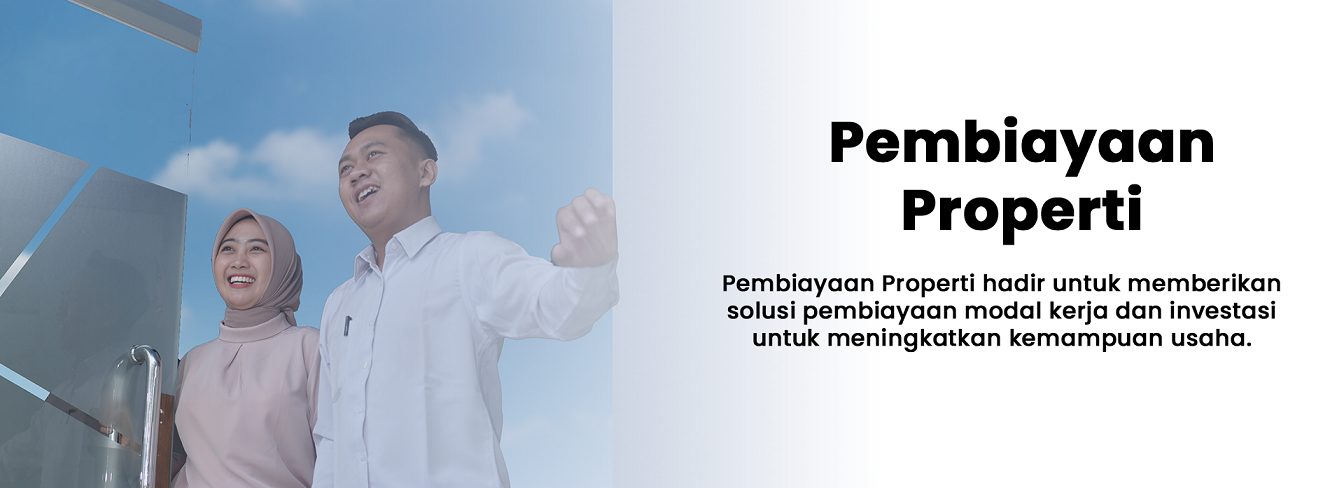
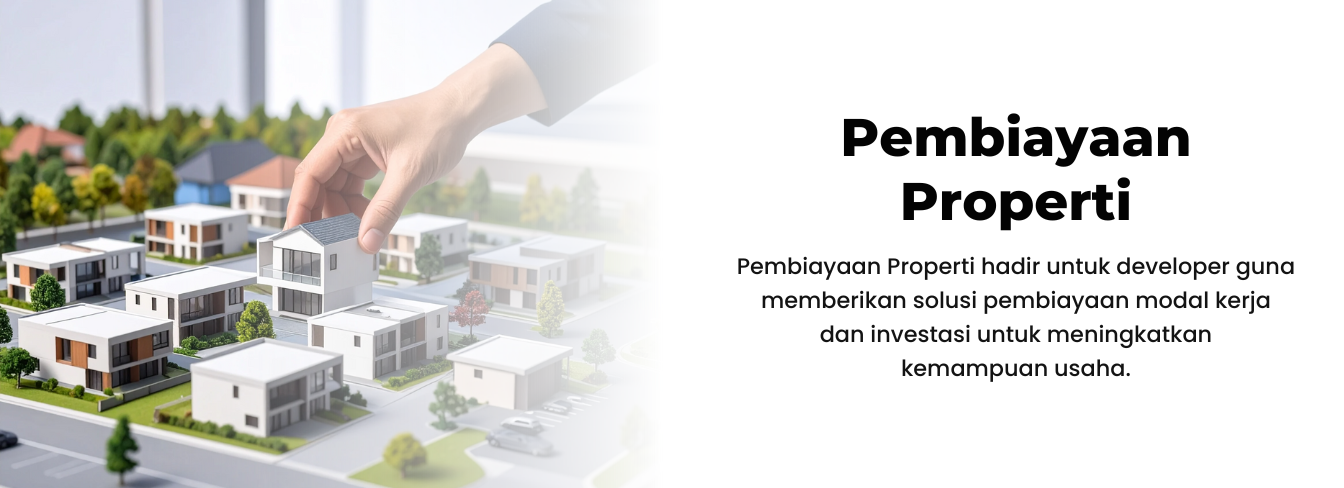
Revisi all

diff --git a/resources/views/tabungan-rencana.blade.php b/resources/views/tabungan-rencana.blade.php
@@ -42,6 +42,32 @@
                             <h5 class="mb-0">Jangka waktu sampai dengan 60 bulan (5 tahun)</h5>
                         </div>
                     </div>
+                    <div class="row g-5">
+                        <div class="col-md-6 d-flex align-items-center mb-1">
+                            <i class="bi bi-check2-square me-3 icon-hover" style="font-size: 2rem;"></i>
+                            <h5 class="mb-0">Akad : Mudharabah Mutlaqah</h5>
+                        </div>
+                        <div class="col-md-6 d-flex align-items-center mb-1">
+                            <i class="bi bi-wallet2 me-3 icon-hover" style="font-size: 2rem;"></i>
+                            <h5 class="mb-0">Setoran Awal Minimum : 100.000,-</h5>
+                        </div>
+                    </div>
+                    <div class="row g-5">
+                        <div class="col-md-6 d-flex align-items-center mb-1">
+                            <i class="bi bi-arrow-repeat me-3 icon-hover" style="font-size: 2rem;"></i>
+                            <h5 class="mb-0">Setoran Rutin Minimum : 100.000,-</h5>
+                        </div>
+                        <div class="col-md-6 d-flex align-items-center mb-1">
+                            <i class="bi bi-calendar-range me-3 icon-hover" style="font-size: 2rem;"></i>
+                            <h5 class="mb-0">Jangka waktu 6 hingga 120 bulan</h5>
+                        </div>
+                    </div>
+                    <div class="row g-5">
+                        <div class="col-md-6 d-flex align-items-center mb-1">
+                            <i class="bi bi-percent me-3 icon-hover" style="font-size: 2rem;"></i>
+                            <h5 class="mb-0">Bagi hasil : Nisbah 30% untuk nasabah setara E.R 4% (menyesuaikan pendapatan bank)</h5>
+                        </div>
+                    </div>
                     <h1 class="pt-1">
                         Keunggulan
                     </h1>
@@ -51,8 +77,8 @@
                             <h5 class="mb-0">Bebas biaya administrasi</h5>
                         </div>
                         <div class="col-md-6 d-flex align-items-center mb-1">
-                            <i class="bi bi-hourglass-split me-3 icon-hover" style="font-size: 2rem;"></i>
-                            <h5 class="mb-0">Dapat diambil sewaktu - waktu</h5>
+                            <i class="bi bi-people-fill me-3 icon-hover" style="font-size: 2rem;"></i>
+                            <h5 class="mb-0">Dapat dibuka untuk anak sejak usia 10 tahun</h5>
                         </div>
                     </div>
                     <div class="row g-5">
@@ -65,29 +91,58 @@
                             <h5 class="mb-0">Dijamin oleh LPS</h5>
                         </div>
                     </div>
-                    <!-- syarat -->
-                    <h1 class="pt-1">
-                        Syarat
-                    </h1>
                     <div class="row g-5">
                         <div class="col-md-6 d-flex align-items-center mb-1">
-                            <i class="bi bi-file-earmark-fill me-3 icon-hover" style="font-size: 2rem;"></i>
-                            <h5 class="mb-0">Tabungan untuk siswa
-                                (PAD, TK, SD / MI, SMP / MTs, SMA / SMK / MA)</h5>
+                            <i class="bi bi-gift-fill me-3 icon-hover" style="font-size: 2rem;"></i>
+                            <h5 class="mb-0">Hadiah langsung tanpa diundi sesuai nominal dan jangka waktu tabungan</h5>
                         </div>
                         <div class="col-md-6 d-flex align-items-center mb-1">
-                            <i class="bi bi-backpack me-3 icon-hover" style="font-size: 2rem;"></i>
-                            <h5 class="mb-0">Usia dibawah 17 tahun dan belum memiliki KTP</h5>
+                            <i class="bi bi-graph-up me-3 icon-hover" style="font-size: 2rem;"></i>
+                            <h5 class="mb-0">Bagi hasil kompetitif</h5>
                         </div>
                     </div>
                     <div class="row g-5">
                         <div class="col-md-6 d-flex align-items-center mb-1">
-                            <i class="bi bi-credit-card-2-front me-3 icon-hover" style="font-size: 2rem;"></i>
-                            <h5 class="mb-0">KTP orang tua / wali</h5>
+                            <i class="bi bi-calendar2-range me-3 icon-hover" style="font-size: 2rem;"></i>
+                            <h5 class="mb-0">Jangka waktu fleksibel hingga 10 tahun</h5>
                         </div>
                         <div class="col-md-6 d-flex align-items-center mb-1">
-                            <i class="bi bi-patch-check me-3 icon-hover" style="font-size: 2rem;"></i>
-                            <h5 class="mb-0">Persetujuan yang sudah diverifikasi sekolah</h5>
+                            <i class="bi bi-speedometer2 me-3 icon-hover" style="font-size: 2rem;"></i>
+                            <h5 class="mb-0">Proses pembukaan mudah dan cepat</h5>
+                        </div>
+                    </div>
+                    <!-- syarat -->
+                    <h1 class="pt-1">
+                        Syarat dan Ketentuan
+                    </h1>
+                    <div class="row g-5">
+                        <div class="col-md-6 mb-4">
+                            <div class="d-flex align-items-start">
+                                <i class="bi bi-file-earmark-fill me-3 icon-hover" style="font-size: 2rem;"></i>
+                                <div>
+                                    <h5 class="mb-2">Perorangan Usia 10–16 tahun</h5>
+                                    <h6 class="mb-2">Dokumen yang diperlukan:</h6>
+                                    <div class="ps-2">
+                                        <h6 class="mb-2">• Kartu Identitas Anak (KIA) / Kartu Pelajar (opsional)</h6>
+                                        <h6 class="mb-2">• Kartu Keluarga (KK)</h6>
+                                        <h6 class="mb-2">• Surat Persetujuan Orang Tua</h6>
+                                        <h6 class="mb-2">• KTP orang tua / wali</h6>
+                                    </div>
+                                </div>
+                            </div>
+                        </div>
+                        <div class="col-md-6 mb-4">
+                            <div class="d-flex align-items-start">
+                                <i class="bi bi-person-badge me-3 icon-hover" style="font-size: 2rem;"></i>
+                                <div>
+                                    <h5 class="mb-2">Perorangan Usia ≥ 17 Tahun</h5>
+                                    <h6 class="mb-2">Dokumen yang diperlukan:</h6>
+                                    <div class="ps-2">
+                                        <h6 class="mb-2">• KTP</h6>
+                                        <h6 class="mb-2">• NPWP (opsional)</h6>
+                                    </div>
+                                </div>
+                            </div>
                         </div>
                     </div>
                     <div class="row pb-4 align-items-center text-center">

diff --git a/resources/views/tabungan-cahaya.blade.php b/resources/views/tabungan-cahaya.blade.php
@@ -1,0 +1,126 @@
+@include('header')
+
+<!-- Navbar & Hero Start -->
+<div class="container-fluid position-relative p-0">
+    <!-- Header Start -->
+    <div class="container-fluid bg-breadcrumb">
+        <div class="container text-center py-5" style="max-width: 900px;">
+            <h4 class="text-white display-5 mb-4 wow fadeInDown" data-wow-delay="0.1s">Produk Tabungan Cahaya</h4>
+            <ol class="breadcrumb d-flex justify-content-center mb-0 wow fadeInDown" data-wow-delay="0.3s">
+                <li class="breadcrumb-item"><a href="{{ url('/') }}">Home</a></li>
+                <li class="breadcrumb-item"><a href="{{ url('tabungan') }}">Tabungan</a></li>
+                <li class="breadcrumb-item active text-primary">Tabungan Cahaya</li>
+            </ol>
+        </div>
+    </div>
+    <!-- Header End -->
+</div>
+<!-- Navbar & Hero End -->
+
+<!-- Tabungan Cahaya Start -->
+<div class="container-fluid tabungan">
+    <div class="container">
+        <div class="row g-5">
+            <div class="wow fadeInRight" data-wow-delay="0.2s">
+                <div class="tabungan-item">
+                    <div class="row g-5 mb-3">
+                        <div class="col-md-12 text-center d-flex justify-content-start align-items-start">
+                            <img src="{{asset('frontend/img/produk/MCI_Produk_Cahaya.png')}}" class="img-fluid-produk" alt="Responsive image">
+                        </div>
+                    </div>
+                    <h1 class="pt-1">
+                        Fitur
+                    </h1>
+                    <div class="row g-5">
+                        <div class="col-md-6 d-flex align-items-center mb-1">
+                            <i class="bi bi-bag-fill me-3 icon-hover" style="font-size: 2rem;"></i>
+                            <h5 class="mb-0">Menggunakan Akad Mudharabah Mutlaqah</h5>
+                        </div>
+                        <div class="col-md-6 d-flex align-items-center mb-1">
+                            <i class="bi bi-calendar-week me-3 icon-hover" style="font-size: 2rem;"></i>
+                            <h5 class="mb-0">Minimal Setora Awal Rp. 10.000.000,-</h5>
+                        </div>
+                    </div>
+                    <h1 class="pt-1">
+                        Keunggulan
+                    </h1>
+                    <div class="row g-5">
+                        <div class="col-md-6 d-flex align-items-center mb-1">
+                            <i class="bi bi-gift-fill me-3 icon-hover" style="font-size: 2rem;"></i>
+                            <h5 class="mb-0">Mendapatkan hadiah langsung tanpa diundi</h5>
+                        </div>
+                        <div class="col-md-6 d-flex align-items-center mb-1">
+                            <i class="bi bi-box-seam-fill me-3 icon-hover" style="font-size: 2rem;"></i>
+                            <h5 class="mb-0">Pilihan hadiah berupa Barang / Jasa</h5>
+                        </div>
+                    </div>
+                    <div class="row g-5">
+                        <div class="col-md-6 d-flex align-items-center mb-1">
+                            <i class="bi bi-alarm-fill me-3 icon-hover" style="font-size: 2rem;"></i>
+                            <h5 class="mb-0">Proses pengadaan hadiah cepat (Max 21 hari kerja)</h5>
+                        </div>
+                        <div class="col-md-6 d-flex align-items-center mb-1">
+                            <i class="bi bi-wallet-fill me-3 icon-hover" style="font-size: 2rem;"></i>
+                            <h5 class="mb-0">Gratis Biaya Administrasi</h5>
+                        </div>
+                    </div>
+                    <!-- syarat -->
+                    <h1 class="pt-1">
+                        Syarat Perorangan
+                    </h1>
+                    <div class="row g-5">
+                        <div class="col-md-6 d-flex align-items-center mb-1">
+                            <i class="bi bi-person-badge me-3 icon-hover" style="font-size: 2rem;"></i>
+                            <h5 class="mb-0">Usia minimal 17 tahun</h5>
+                        </div>
+                        <div class="col-md-6 d-flex align-items-center mb-1">
+                            <i class="bi bi-credit-card-2-front me-3 icon-hover" style="font-size: 2rem;"></i>
+                            <h5 class="mb-0">Memiliki KTP</h5>
+                        </div>
+                    </div>
+                    <div class="row g-5">
+                        <div class="col-md-6 d-flex align-items-center mb-1">
+                            <i class="bi bi-file-text me-3 icon-hover" style="font-size: 2rem;"></i>
+                            <h5 class="mb-0">NPWP (opsional)</h5>
+                        </div>
+                    </div>
+
+                    <h1 class="pt-1">
+                        Syarat Badan Usaha
+                    </h1>
+                    <div class="row g-5">
+                        <div class="col-md-6 d-flex align-items-center mb-1">
+                            <i class="bi bi-file-earmark-text me-3 icon-hover" style="font-size: 2rem;"></i>
+                            <h5 class="mb-0">Akta Pendirian dan Akta Perubahan</h5>
+                        </div>
+                        <div class="col-md-6 d-flex align-items-center mb-1">
+                            <i class="bi bi-building me-3 icon-hover" style="font-size: 2rem;"></i>
+                            <h5 class="mb-0">NIB Badan Hukum</h5>
+                        </div>
+                    </div>
+                    <div class="row g-5">
+                        <div class="col-md-6 d-flex align-items-center mb-1">
+                            <i class="bi bi-file-text me-3 icon-hover" style="font-size: 2rem;"></i>
+                            <h5 class="mb-0">NPWP Pengurus</h5>
+                        </div>
+                        <div class="col-md-6 d-flex align-items-center mb-1">
+                            <i class="bi bi-person-vcard me-3 icon-hover" style="font-size: 2rem;"></i>
+                            <h5 class="mb-0">KTP Pengurus</h5>
+                        </div>
+                    </div>
+                    <div class="row pb-4 align-items-center text-center">
+                        <div class="col-md-12 ">
+                            <a href="https://wa.me/+6285771796642" class="btn btn-primary btn-lg">
+                                Buka Rekening
+                            </a>
+                        </div>
+                    </div>
+                </div>
+            </div>
+        </div>
+    </div>
+</div>
+
+<!-- Products End -->
+
+@include('footer')

diff --git a/resources/views/footer.blade.php b/resources/views/footer.blade.php
@@ -67,14 +67,17 @@
                 </div>
             </div>
         </div>
-        <div class="row g-5 justify-content-end align-items-end mt-0 pt-0">
-            <div class="footer-item d-flex flex-column align-items-end mt-0 pt-0">
-                <div class="d-flex justify-content-end align-items-center mt-0 pt-0">
+        <div class="row g-5 justify-content-between align-items-center mt-0 pt-0">
+            <div class="col-md-10">
+                <small class="text-white d-block text-end">BPRS HIK MCI merupakan peserta penjaminan LPS</small>
+                <small class="text-white d-block mb-1 text-end">BPRS HIK MCI berizin dan diawasi oleh Otoritas Jasa Keuangan</small>
+            </div>
+            <div class="col-md-2">
+                <div class="d-flex justify-content-start">
                     <img src="{{ asset('frontend/img/logo/ib_logo.png') }}" alt="Bank Syariah" class="img-fluid me-3" style="height: 50px;">
                     <img src="{{ asset('frontend/img/logo/bprs_logo.png') }}" alt="BPR Syariah" class="img-fluid me-3" style="height: 50px;">
-                    <img src="{{ asset('frontend/img/logo/lps.png') }}" alt="Lembaga Penjamin Simpanan" class="img-fluid me-3" style="height: 50px;">
+                    <!-- <img src="{{ asset('frontend/img/logo/lps.png') }}" alt="Lembaga Penjamin Simpanan" class="img-fluid" style="height: 50px;"> -->
                 </div>
-                <p class="text-white text-end me-3">Terdaftar dan diawasi oleh Otoritas Jasa Keuangan</p>
             </div>
         </div>
     </div>

diff --git a/resources/views/index.blade.php b/resources/views/index.blade.php
@@ -88,7 +88,7 @@
                         <label for="jumlahPembiayaan" class="form-label">Jumlah Pembiayaan</label>
                         <input type="text" class="form-control form-control-lg rounded-pill" id="jumlahPembiayaan" placeholder="Jumlah Pembiayaan" />
                     </div>
-                    <div class="col-md-4 text-center">
+                    <!-- <div class="col-md-4 text-center">
                         <label for="produkPembiayaan" class="form-label">Produk</label>
                         <select class="form-select form-select-lg rounded-pill" id="produkPembiayaan">
                             <option value="" disabled selected>Pilih Produk</option>
@@ -100,7 +100,7 @@
                             <option value="CF Kolektif Karyawan">CF Kolektif Karyawan</option>
                             <option value="CF Umroh">CF Umroh</option>
                         </select>
-                    </div>
+                    </div> -->
                     <div class="col-md-4 text-center">
                         <label for="jangkaWaktuPembiayaan" class="form-label">Jangka Waktu</label>
                         <select class="form-select form-select-lg rounded-pill" id="jangkaWaktuPembiayaan">

diff --git a/resources/views/tabungan.blade.php b/resources/views/tabungan.blade.php
@@ -29,8 +29,12 @@
             ["name" => "Tabungan Karimah", "image" => "frontend/img/tabungan/MCI_Tab_Karimah.png", "link" => route('tabungan-karimah')],
             ["name" => "Tabungan Ukhuwah", "image" => "frontend/img/tabungan/MCI_Tab_Ukhuwah.png", "link" => route('tabungan-ukhuwah')],
             ["name" => "Tabungan Cerdas", "image" => "frontend/img/tabungan/MCI_Tab_Cerdas.png", "link" => route('tabungan-cerdas')],
+            ["name" => "Tabungan Cahaya", "image" => "frontend/img/tabungan/MCI_Tab_Cahaya.png", "link" => route('tabungan-cahaya')],
             ["name" => "Tabungan Rencana", "image" => "frontend/img/tabungan/MCI_Tab_Rencana.png", "link" => route('tabungan-rencana')],
             ] as $index => $product)
+
+            <!-- ["name" => "Tabungan Rencana", "image" => "frontend/img/tabungan/MCI_Tab_Rencana.png", "link" => route('tabungan-rencana')], -->
+
             <div class="col-md-6 col-lg-4 col-xl-3 wow fadeInUp" data-wow-delay="{{ 0.2 + ($index * 0.2) }}s">
                 <div class="product-item">
                     <img src="{{ asset($product['image']) }}" class="img-fluid w-100 rounded-top" alt="{{ $product['name'] }}">

diff --git a/resources/views/pembiayaan.blade.php b/resources/views/pembiayaan.blade.php
@@ -29,7 +29,7 @@
             @foreach ([
             ["name" => "UMKM Mikro", "image" => "frontend/img/pembiayaan/MCI_Pemb_UKM.png", "link" => route('pembiayaan-umkm')],
             ["name" => "UMKM Korporat", "image" => "frontend/img/pembiayaan/MCI_Pemb_Corporate.png", "link" => route('pembiayaan-corporate')],
-            ["name" => "Properti", "image" => "frontend/img/pembiayaan/MCI_Pemb_Prop.png", "link" => route('pembiayaan-property')],
+            ["name" => "Properti", "image" => "frontend/img/pembiayaan/MCI_Pemb_Properti.png", "link" => route('pembiayaan-property')],
             ["name" => "Consumer Finance", "image" => "frontend/img/pembiayaan/MCI_Pemb_CustFinance.png", "link" => route('pembiayaan-consumer-finance')],
             ] as $index => $product)
             <div class="col-md-6 col-lg-4 col-xl-3 wow fadeInUp" data-wow-delay="{{ 0.2 + ($index * 0.2) }}s">

diff --git a/resources/views/pembiayaan-consumer-finance.blade.php b/resources/views/pembiayaan-consumer-finance.blade.php
@@ -31,9 +31,9 @@
                     <li class="nav-item mb-2">
                         <a class="nav-link" id="v-pills-kolektif-tab" data-bs-toggle="pill" href="#v-pills-kolektif" role="tab" aria-controls="v-pills-kolektif" aria-selected="false">Kolektif Karyawan</a>
                     </li>
-                    <li class="nav-item mb-2">
+                    <!-- <li class="nav-item mb-2">
                         <a class="nav-link" id="v-pills-umroh-tab" data-bs-toggle="pill" href="#v-pills-umroh" role="tab" aria-controls="v-pills-umroh" aria-selected="false">Pembiayaan Umroh</a>
-                    </li>
+                    </li> -->
                 </ul>
             </div>
             <div class="col-lg-9 col-md-8 col-12">

diff --git a/routes/web.php b/routes/web.php
@@ -36,6 +36,7 @@ Route::prefix('tabungan')->group(function () {
     Route::view('/tabungan-ukhuwah', 'tabungan-ukhuwah')->name('tabungan-ukhuwah');
     Route::view('/tabungan-cerdas', 'tabungan-cerdas')->name('tabungan-cerdas');
     Route::view('/tabungan-rencana', 'tabungan-rencana')->name('tabungan-rencana');
+    Route::view('/tabungan-cahaya', 'tabungan-cahaya')->name('tabungan-cahaya');
 });
 
 // Main-Deposito Pages
